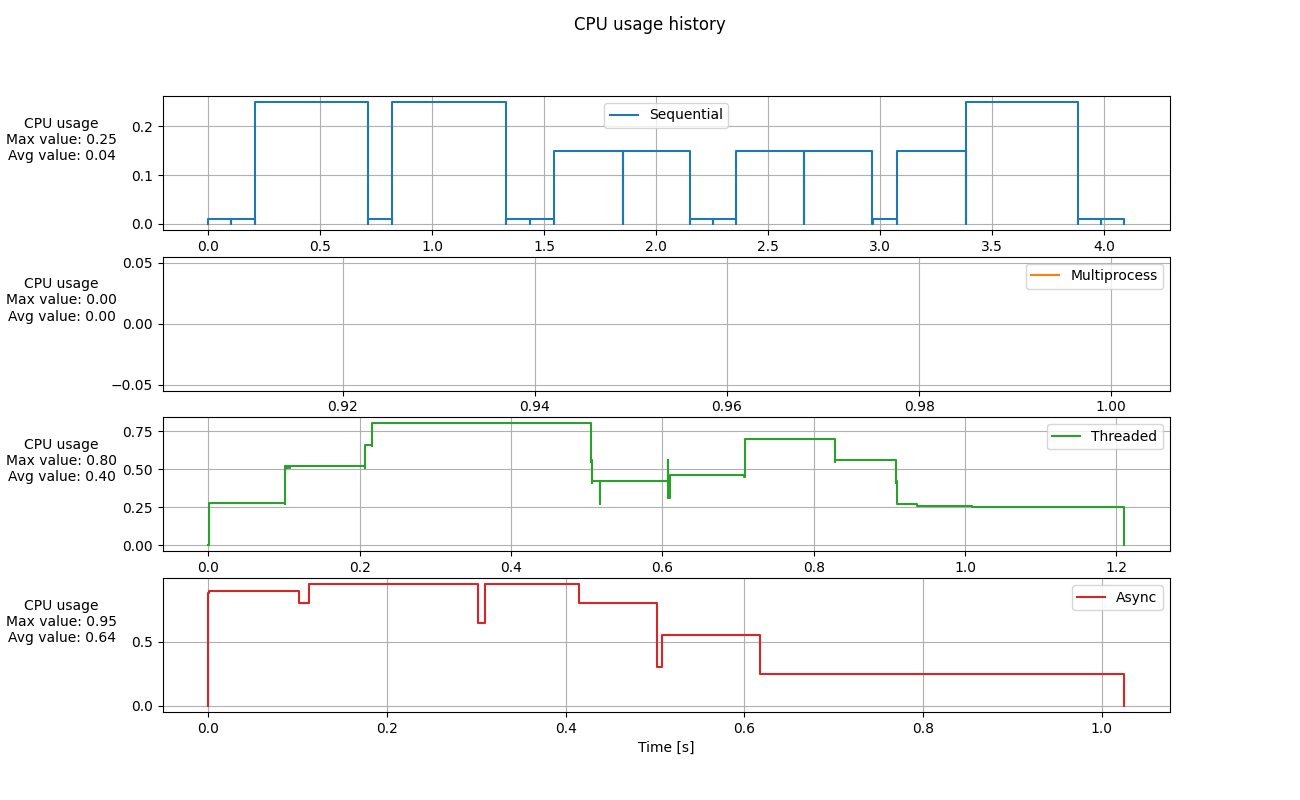
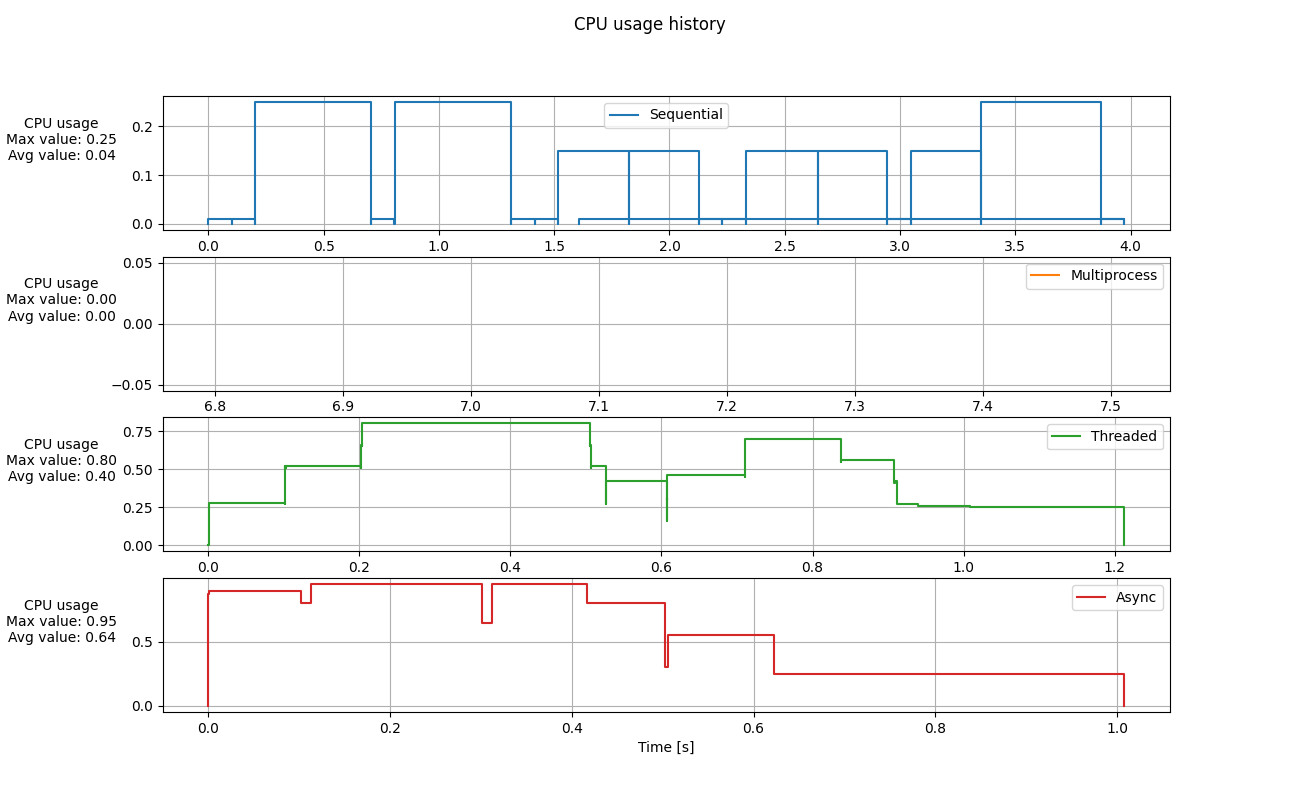
refactor simulations and add NUM_WORKERS

diff --git a/lab9/run_simulation.py b/lab9/run_simulation.py
@@ -3,7 +3,7 @@ from threads_server import threaded_simulation
 from multiproc_server import multiprocess_simulation
 from async_server import asyncio_simulation
 from cpu_manager import visualize_cpu_usage
-from sim_params import SEED
+from sim_params import SEED, CPU_MANAGER_ENABLE
 from user_request import *
 from random import shuffle, seed
 
@@ -12,18 +12,16 @@ def main():
     seed(SEED)
     requests = create_requests(U1=U1, U2=U2, U3=U3)
     print("=== Sequential Simulation ===")
-    seq_time, seq_cpu, seq_cpu_report = sequential_simulation(requests=requests)
+    seq_time, seq_cpu = sequential_simulation(requests=requests)
 
     print("\n=== Multiprocess Simulation ===")
-    mp_time, mp_cpu, mp_cpu_report = multiprocess_simulation(requests=requests)
+    mp_time, mp_cpu = multiprocess_simulation(requests=requests)
 
     print("\n=== Threaded Simulation ===")
-    thread_time, thread_cpu, thread_cpu_report = threaded_simulation(requests=requests)
+    thread_time, thread_cpu = threaded_simulation(requests=requests)
 
     print("\n=== Asyncio Simulation ===")
-    asyncio_time, asyncio_cpu, asyncio_cpu_report = asyncio.run(
-        asyncio_simulation(requests=requests)
-    )
+    asyncio_time, asyncio_cpu = asyncio.run(asyncio_simulation(requests=requests))
 
     # Сравнение результатов
     print("\n" + "=" * 50)
@@ -31,21 +29,18 @@ def main():
     print("=" * 50)
     print(f"{'Method':<12} {'Time (s)':<10} {'Avg CPU (%)':<12}")
     print("-" * 50)
-    print(f"{'Sequential':<12} {seq_time:<10.3f} {seq_cpu*100:<12.1f}")
-    print(f"{'Multiprocess':<12} {mp_time:<10.3f} {mp_cpu*100:<12.1f}")
-    print(f"{'Threaded':<12} {thread_time:<10.3f} {thread_cpu*100:<12.1f}")
-    print(f"{'Asyncio':<12} {asyncio_time:<10.3f} {asyncio_cpu*100:<12.1f}")
+    print(f"{'Sequential':<12} {seq_time:<10.3f} {seq_cpu["avg"]*100:<12.1f}")
+    print(f"{'Multiprocess':<12} {mp_time:<10.3f} {mp_cpu["avg"]*100:<12.1f}")
+    print(f"{'Threaded':<12} {thread_time:<10.3f} {thread_cpu["avg"]*100:<12.1f}")
+    print(f"{'Asyncio':<12} {asyncio_time:<10.3f} {asyncio_cpu["avg"]*100:<12.1f}")
 
-    # print(seq_cpu_report)
-    # print(mp_cpu_report)
-    # print(thread_cpu_report)
-    # print(asyncio_cpu_report)
-    visualize_cpu_usage(
-        seq_cpu_report=seq_cpu_report,
-        mp_cpu_report=mp_cpu_report,
-        thread_cpu_report=thread_cpu_report,
-        asyncio_cpu_report=asyncio_cpu_report,
-    )
+    if CPU_MANAGER_ENABLE:
+        visualize_cpu_usage(
+            seq_cpu_report=seq_cpu,
+            mp_cpu_report=mp_cpu,
+            thread_cpu_report=thread_cpu,
+            asyncio_cpu_report=asyncio_cpu,
+        )
 
 
 if __name__ == "__main__":

diff --git a/lab9/threads_server.py b/lab9/threads_server.py
@@ -3,7 +3,7 @@ import time
 from typing import List, Tuple, Dict
 from user_request import UserRequest, RequestResult
 from queue import Queue
-from cpu_manager import cpu_manager, CPU_MANAGER_ENABLE
+from cpu_manager import cpu_manager, CPU_MANAGER_ENABLE, NUM_WORKERS
 
 
 def thread_worker(queue: Queue[UserRequest], results: List[RequestResult]):
@@ -13,13 +13,17 @@ def thread_worker(queue: Queue[UserRequest], results: List[RequestResult]):
             result = request.process_request()
             results.append(result)
             queue.task_done()
-            print(f"User {result.user_id}: action {result.action_type}, "
-                  f"time: {result.processing_time:.3f}s, CPU: {result.cpu_load*100:.1f}%")
+            print(
+                f"User {result.user_id}: action {result.action_type}, "
+                f"time: {result.processing_time:.3f}s, CPU: {result.cpu_load*100:.1f}%"
+            )
         except:
             break
 
 
-def threaded_simulation(requests: List[UserRequest], num_threads: int = 4) -> Tuple[float, float, Dict]:
+def threaded_simulation(
+    requests: List[UserRequest], num_threads: int = NUM_WORKERS
+) -> Tuple[float, Dict]:
     if CPU_MANAGER_ENABLE:
         cpu_manager.reset()
     queue = Queue()
@@ -40,10 +44,5 @@ def threaded_simulation(requests: List[UserRequest], num_threads: int = 4) -> Tu
         thread.join()
 
     total_time = time.time() - start_time
-    total_cpu = sum(result.cpu_load for result in results)
-    avg_cpu = total_cpu / len(results)
-
-    print(f"\nThreaded - Total time: {total_time:.3f}s, "
-          f"Avg CPU: {avg_cpu*100:.1f}%")
-
-    return total_time, avg_cpu, cpu_manager.get_stats()
+    print(f"\nThreaded - Total time: {total_time:.3f}s")
+    return total_time, cpu_manager.get_stats()

diff --git a/lab9/multiproc_server.py b/lab9/multiproc_server.py
@@ -2,28 +2,28 @@ import time
 import multiprocessing as mp
 from typing import List, Tuple, Dict
 from user_request import UserRequest, RequestResult
-from cpu_manager import cpu_manager, CPU_MANAGER_ENABLE
+from cpu_manager import cpu_manager, CPU_MANAGER_ENABLE, NUM_WORKERS
 
 
 def process_worker(request: UserRequest) -> RequestResult:
     result = request.process_request()
-    print(f"User {result.user_id}: action {result.action_type}, "
-          f"time: {result.processing_time:.3f}s, CPU: {result.cpu_load*100:.1f}%")
+    print(
+        f"User {result.user_id}: action {result.action_type}, "
+        f"time: {result.processing_time:.3f}s, CPU: {result.cpu_load*100:.1f}%"
+    )
     return result
 
-def multiprocess_simulation(requests: List[UserRequest], num_proc: int = 4) -> Tuple[float, float, Dict]:
+
+def multiprocess_simulation(
+    requests: List[UserRequest], num_proc: int = NUM_WORKERS
+) -> Tuple[float, Dict]:
     if CPU_MANAGER_ENABLE:
         cpu_manager.reset()
     start_time = time.time()
-    
+
     with mp.Pool(processes=num_proc) as pool:
-        results = pool.map(process_worker, requests)
-    
+        _ = pool.map(process_worker, requests)
+
     total_time = time.time() - start_time
-    total_cpu = sum(result.cpu_load for result in results)
-    avg_cpu = total_cpu / len(results)
-    
-    print(f"\nMultiprocess - Total time: {total_time:.3f}s, "
-          f"Avg CPU: {avg_cpu*100:.1f}%")
-    
-    return total_time, avg_cpu, cpu_manager.get_stats()
+    print(f"\nMultiprocess - Total time: {total_time:.3f}s")
+    return total_time, cpu_manager.get_stats()

diff --git a/lab9/async_server.py b/lab9/async_server.py
@@ -1,27 +1,23 @@
-
 import time
 import asyncio
 from typing import List, Tuple, Dict
 from user_request import UserRequest
 from cpu_manager import cpu_manager, CPU_MANAGER_ENABLE
 
-async def asyncio_simulation(requests: List[UserRequest]) -> Tuple[float, float, Dict]:
+
+async def asyncio_simulation(requests: List[UserRequest]) -> Tuple[float, Dict]:
     if CPU_MANAGER_ENABLE:
         cpu_manager.reset()
     tasks = [request.process_request_async() for request in requests]
-    
+
     start_time = time.time()
     results = await asyncio.gather(*tasks)
     total_time = time.time() - start_time
-    
-    total_cpu = sum(result.cpu_load for result in results)
-    avg_cpu = total_cpu / len(results)
-    
     for result in results:
-        print(f"User {result.user_id}: action {result.action_type}, "
-              f"time: {result.processing_time:.3f}s, CPU: {result.cpu_load*100:.1f}%")
-    
-    print(f"\nAsyncio - Total time: {total_time:.3f}s, "
-          f"Avg CPU: {avg_cpu*100:.1f}%")
-    
-    return total_time, avg_cpu, cpu_manager.get_stats()
+        print(
+            f"User {result.user_id}: action {result.action_type}, "
+            f"time: {result.processing_time:.3f}s, CPU: {result.cpu_load*100:.1f}%"
+        )
+
+    print(f"\nAsyncio - Total time: {total_time:.3f}s")
+    return total_time, cpu_manager.get_stats()

diff --git a/lab9/sequential_server.py b/lab9/sequential_server.py
@@ -4,7 +4,7 @@ from user_request import UserRequest
 from cpu_manager import cpu_manager, CPU_MANAGER_ENABLE
 
 
-def sequential_simulation(requests: List[UserRequest]) -> Tuple[float, float, Dict]:
+def sequential_simulation(requests: List[UserRequest]) -> Tuple[float, Dict]:
     if CPU_MANAGER_ENABLE:
         cpu_manager.reset()
     total_cpu = 0.0
@@ -13,13 +13,11 @@ def sequential_simulation(requests: List[UserRequest]) -> Tuple[float, float, Di
     for request in requests:
         result = request.process_request()
         total_cpu += result.cpu_load
-        print(f"User {result.user_id}: action {result.action_type}, "
-              f"time: {result.processing_time:.3f}s, CPU: {result.cpu_load*100:.1f}%")
+        print(
+            f"User {result.user_id}: action {result.action_type}, "
+            f"time: {result.processing_time:.3f}s, CPU: {result.cpu_load*100:.1f}%"
+        )
 
     total_time = time.time() - start_time
-    avg_cpu = total_cpu / len(requests)
-
-    print(f"\nSequential - Total time: {total_time:.3f}s, "
-          f"Avg CPU: {avg_cpu*100:.1f}%")
-
-    return total_time, avg_cpu, cpu_manager.get_stats()
+    print(f"\nSequential - Total time: {total_time:.3f}s")
+    return total_time, cpu_manager.get_stats()

diff --git a/lab9/sim_params.py b/lab9/sim_params.py
@@ -17,6 +17,9 @@ C1 = 0.25  # Registration
 C2 = 0.15  # Get main page
 C3 = 0.01  # Get active users
 
+"""Number of parallel workers (threaded/multiprocess simulation)"""
+NUM_WORKERS = 4
+
 """CPU Manager settings"""
 CPU_MANAGER_ENABLE = True
 T_WAIT = 0.01
